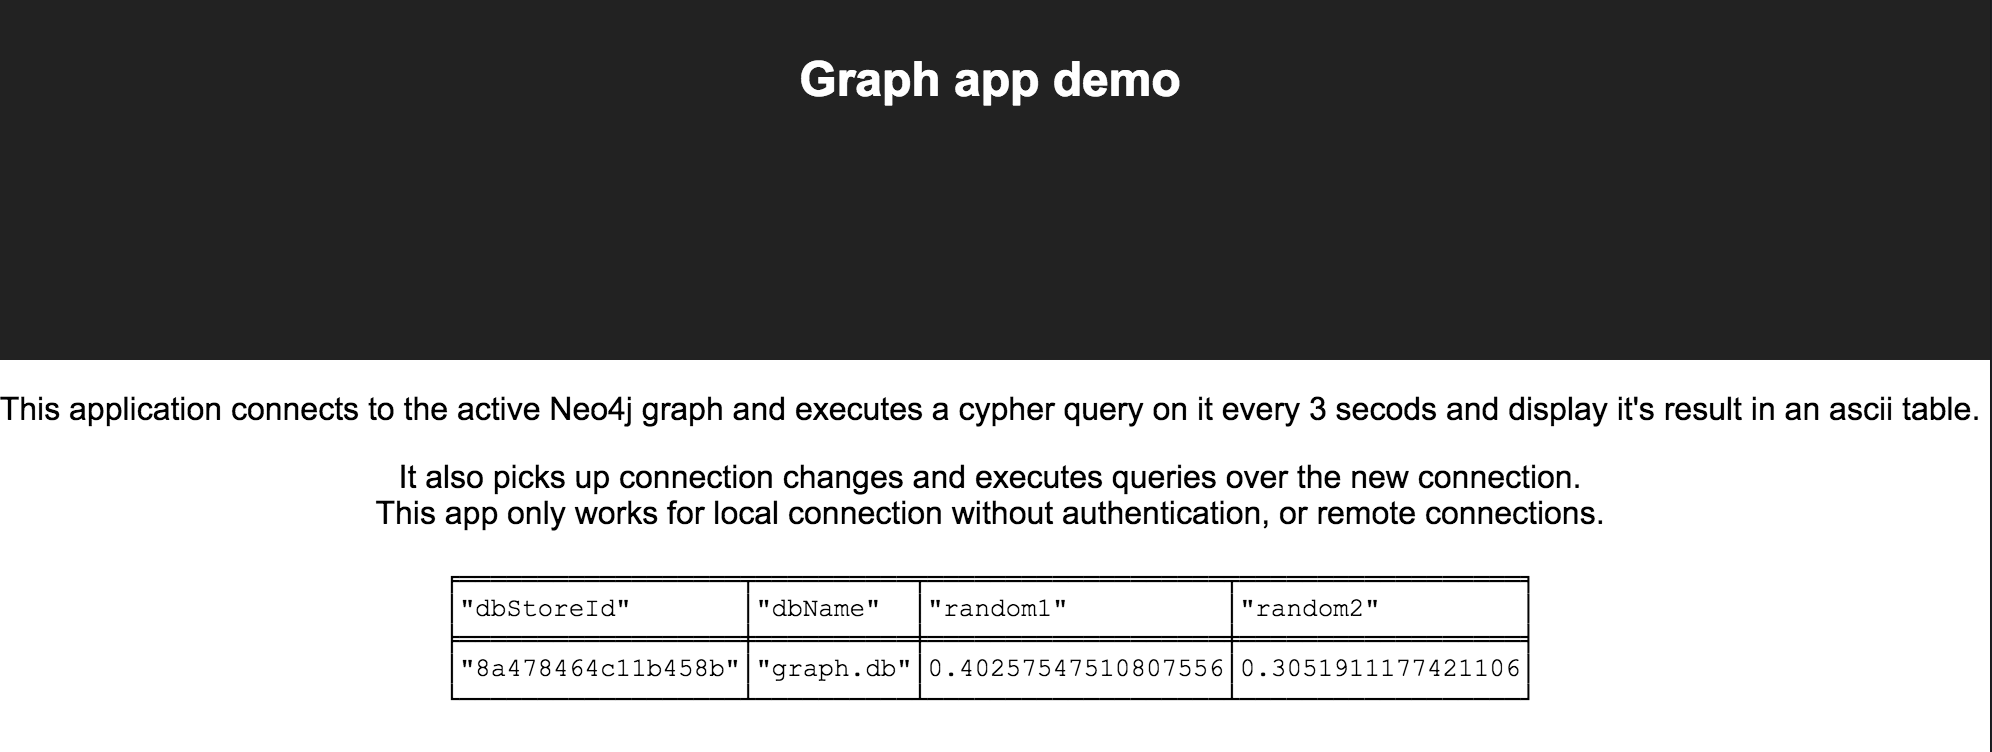
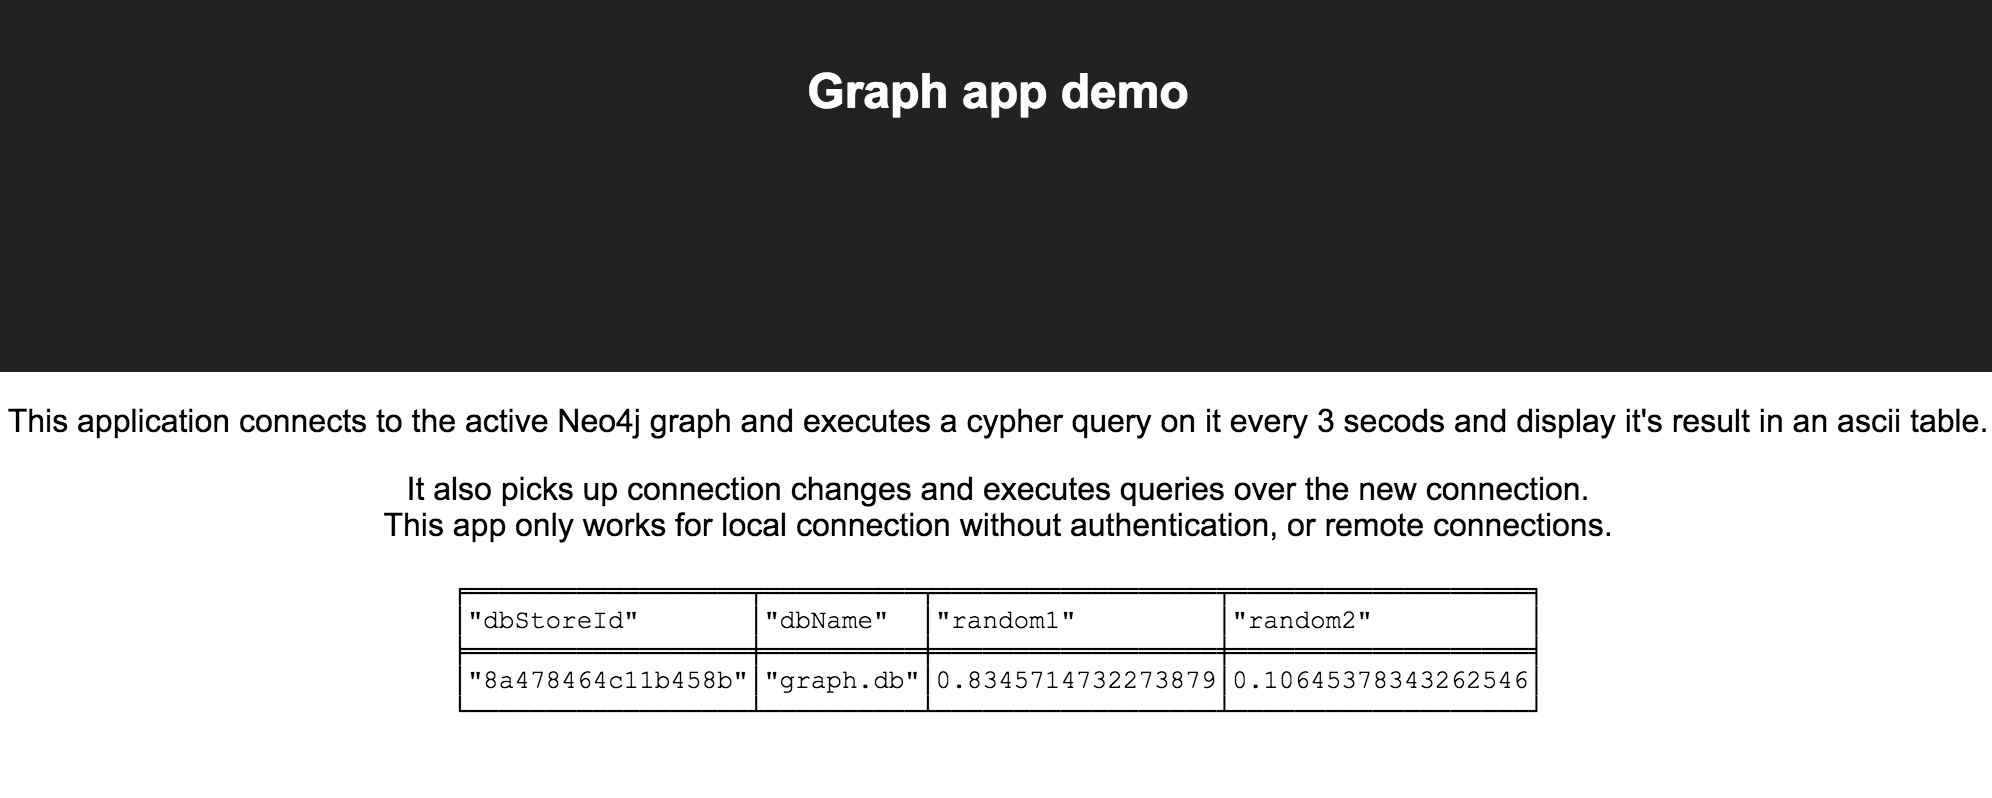
Fix screenshot + sourcecode rendering for cra-graph-app-components

Changed region(s): [[0.0, 0.4588, 1.0, 1.0], [0.2179, 0.734, 0.7781, 0.9481], [0.4046, 0.0612, 0.5914, 0.1529]]

diff --git a/examples/cra-graph-app-components/src/App.js b/examples/cra-graph-app-components/src/App.js
@@ -66,7 +66,7 @@ class App extends Component {
         </header>
         <p>
           This application connects to the active Neo4j graph and executes a
-          cypher query on it every 3 secods and display it's result in an ascii
+          cypher query on it every 3 secods and display its result in an ascii
           table.
         </p>
         <p>
